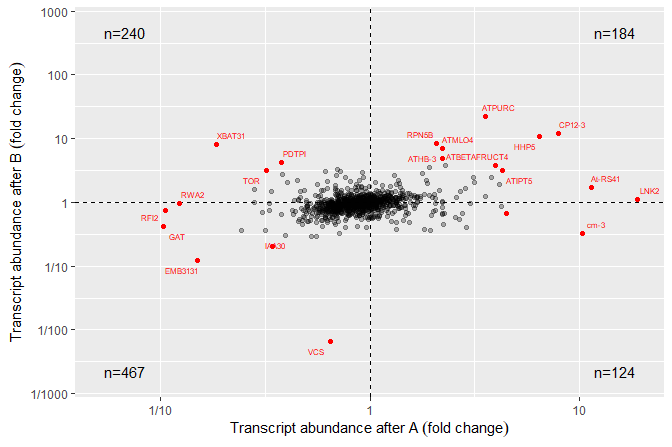
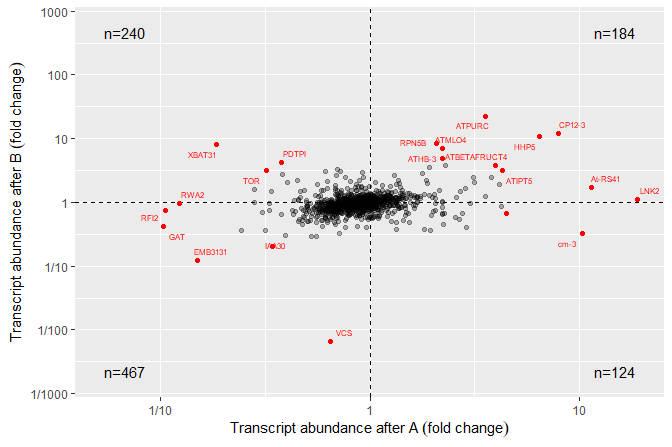
Release candidate
Check with CRAN winbuilder
several .Rd files broken by 'roxygen2' 8.0.0 fixed by removing \emph markup from arguments to `@user` because they are copied to `\concept` now, where they are not allowed.
Update Cheat Sheet and fix bad URLs in User Guide. Use in Cheat Sheet and User Guide the package version date instead of the date when rendered.

diff --git a/README.md b/README.md
@@ -423,7 +423,7 @@ citation("ggpmisc")
 #> To cite package 'ggpmisc' in publications use:
 #> 
 #>   Aphalo P (2026). _ggpmisc: Miscellaneous Extensions to 'ggplot2'_. R
-#>   package version 0.7.0.9004,
+#>   package version 0.7.0.9009,
 #>   <https://docs.r4photobiology.info/ggpmisc/>.
 #> 
 #> A BibTeX entry for LaTeX users is
@@ -432,7 +432,7 @@ citation("ggpmisc")
 #>     title = {ggpmisc: Miscellaneous Extensions to 'ggplot2'},
 #>     author = {Pedro J. Aphalo},
 #>     year = {2026},
-#>     note = {R package version 0.7.0.9004},
+#>     note = {R package version 0.7.0.9009},
 #>     url = {https://docs.r4photobiology.info/ggpmisc/},
 #>   }
 ```